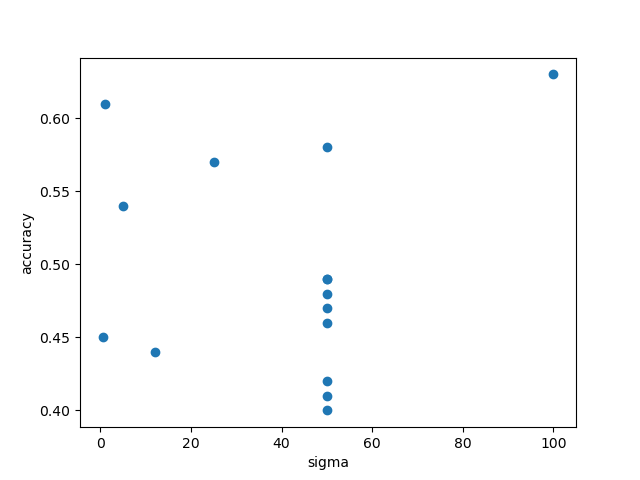
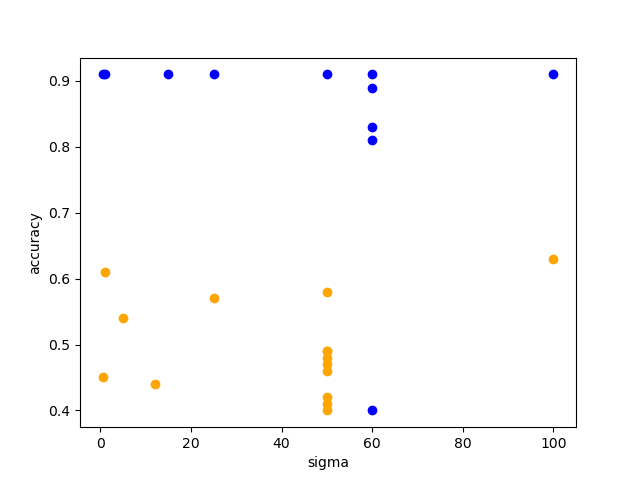
fix: Change analisyse graphics

diff --git a/analyse/analyse.py b/analyse/analyse.py
@@ -2,42 +2,48 @@ import pandas as pd
 import matplotlib.pyplot as plt
 
 data = pd.read_csv(r"person1.csv")
-sigma = data['Сигма'].values
-lambda_ = data['Лямбда'].values
-acc = data['Метрика 1'].values
-jacc = data['Мера Жаккара'].values
+p_sigma = data['Сигма'].values
+p_lambda_ = data['Лямбда'].values
+p_acc = data['Метрика 1'].values
+p_jacc = data['Мера Жаккара'].values
 
-# for i in range(len(accuracy)):
-#     acc.append(float(accuracy[i].replace(',', '.')))
-#     jacc.append(float(jaccard[i].replace(',', '.')))
+data = pd.read_csv(r"elefant.csv")
+e_sigma = data['Сигма'].values
+e_lambda_ = data['Лямбда'].values
+e_acc = data['Метрика 1'].values
+e_jacc = data['Мера Жаккара'].values
+
 
 def plot1():
-    print(len(sigma), len(acc))
-    plt.scatter(sigma, acc)
+    plt.scatter(p_sigma, p_acc, color='orange')
+    plt.scatter(e_sigma, e_acc, color='blue')
     plt.xlabel('sigma')
     plt.ylabel('accuracy')
     plt.savefig('graphics/sigma_acc')
 
 def plot2():
-    plt.scatter(sigma, jacc)
+    plt.scatter(p_sigma, p_jacc, color='orange')
+    plt.scatter(e_sigma, e_jacc, color='blue')
     plt.xlabel('sigma')
     plt.ylabel('jaccard')
     plt.savefig('graphics/sigma_jacc')
 
 def plot3():
-    plt.scatter(lambda_, acc)
+    plt.scatter(p_lambda_, p_acc, color='orange')
+    plt.scatter(e_lambda_, e_acc, color='blue')
     plt.xlabel('lambda')
     plt.ylabel('accuracy')
     plt.savefig('graphics/lambda_acc')
 
 def plot4():
-    plt.scatter(lambda_, jacc)
+    plt.scatter(p_lambda_, p_jacc, color='orange')
+    plt.scatter(e_lambda_, e_jacc, color='blue')
     plt.xlabel('lambda')
     plt.ylabel('jaccard')
     plt.savefig('graphics/lambda_jacc')
 
 
 plot1()
-#plot2()
-#plot3()
-#plot4()
+plot2()
+plot3()
+plot4()
